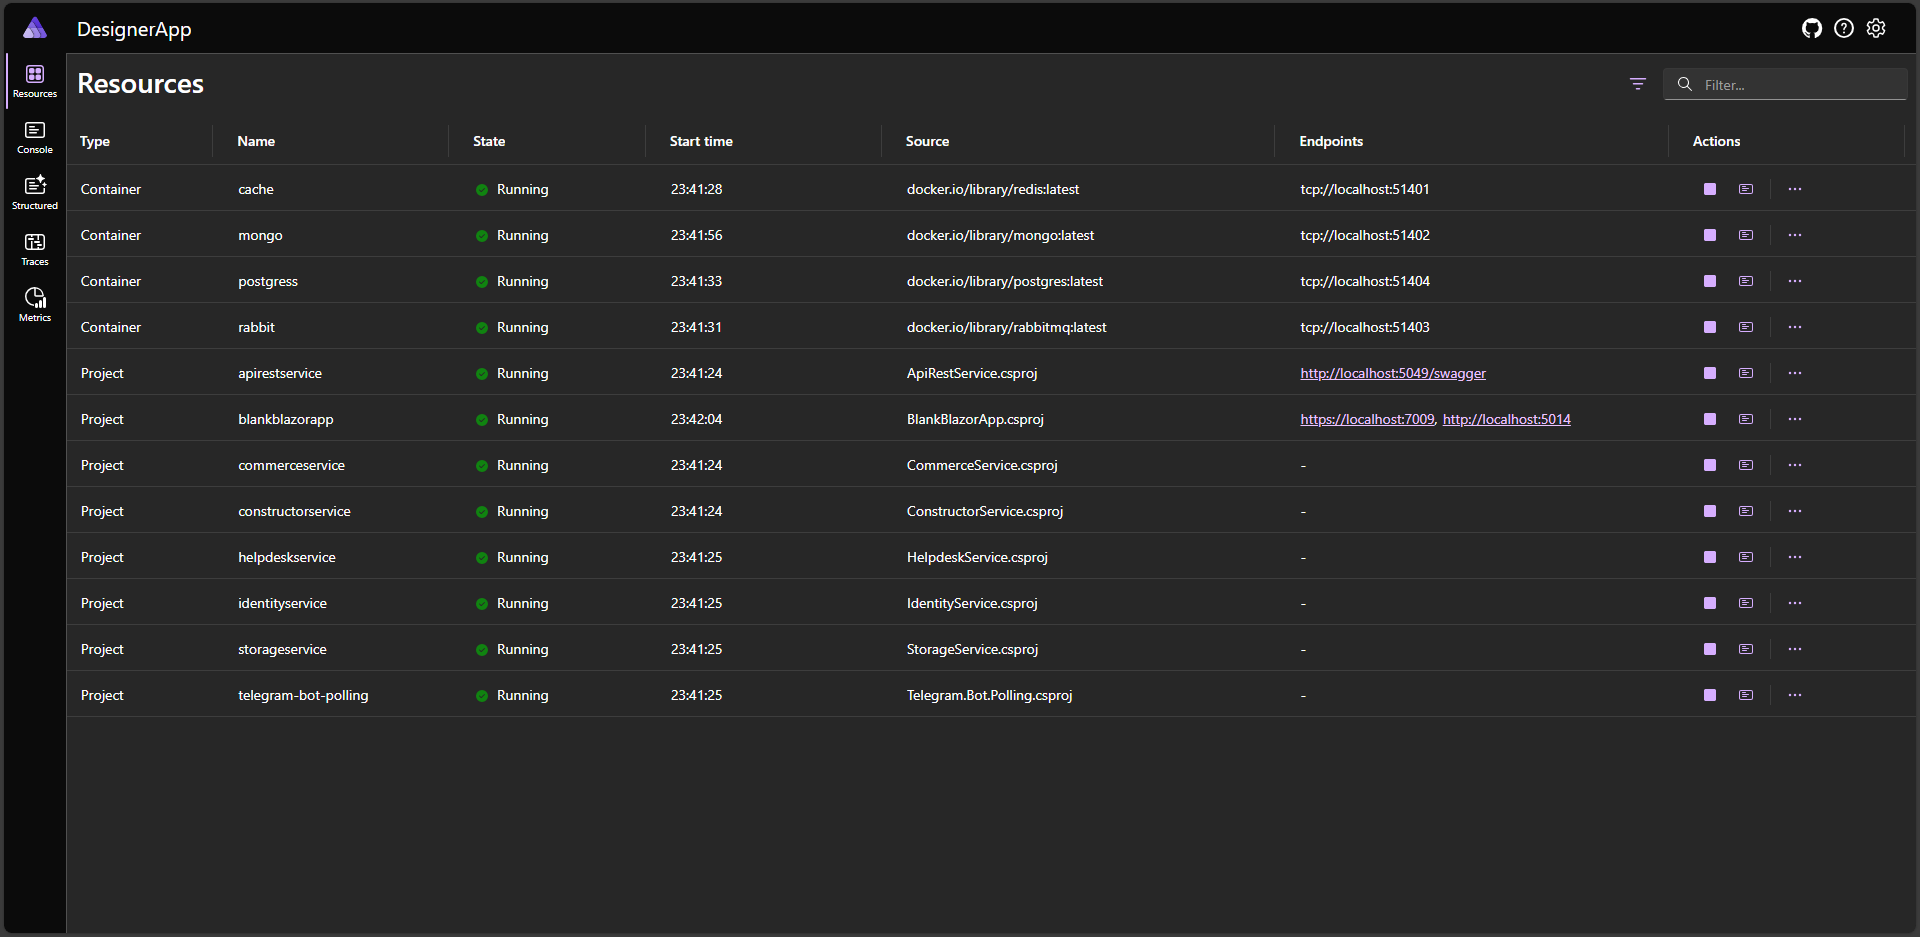
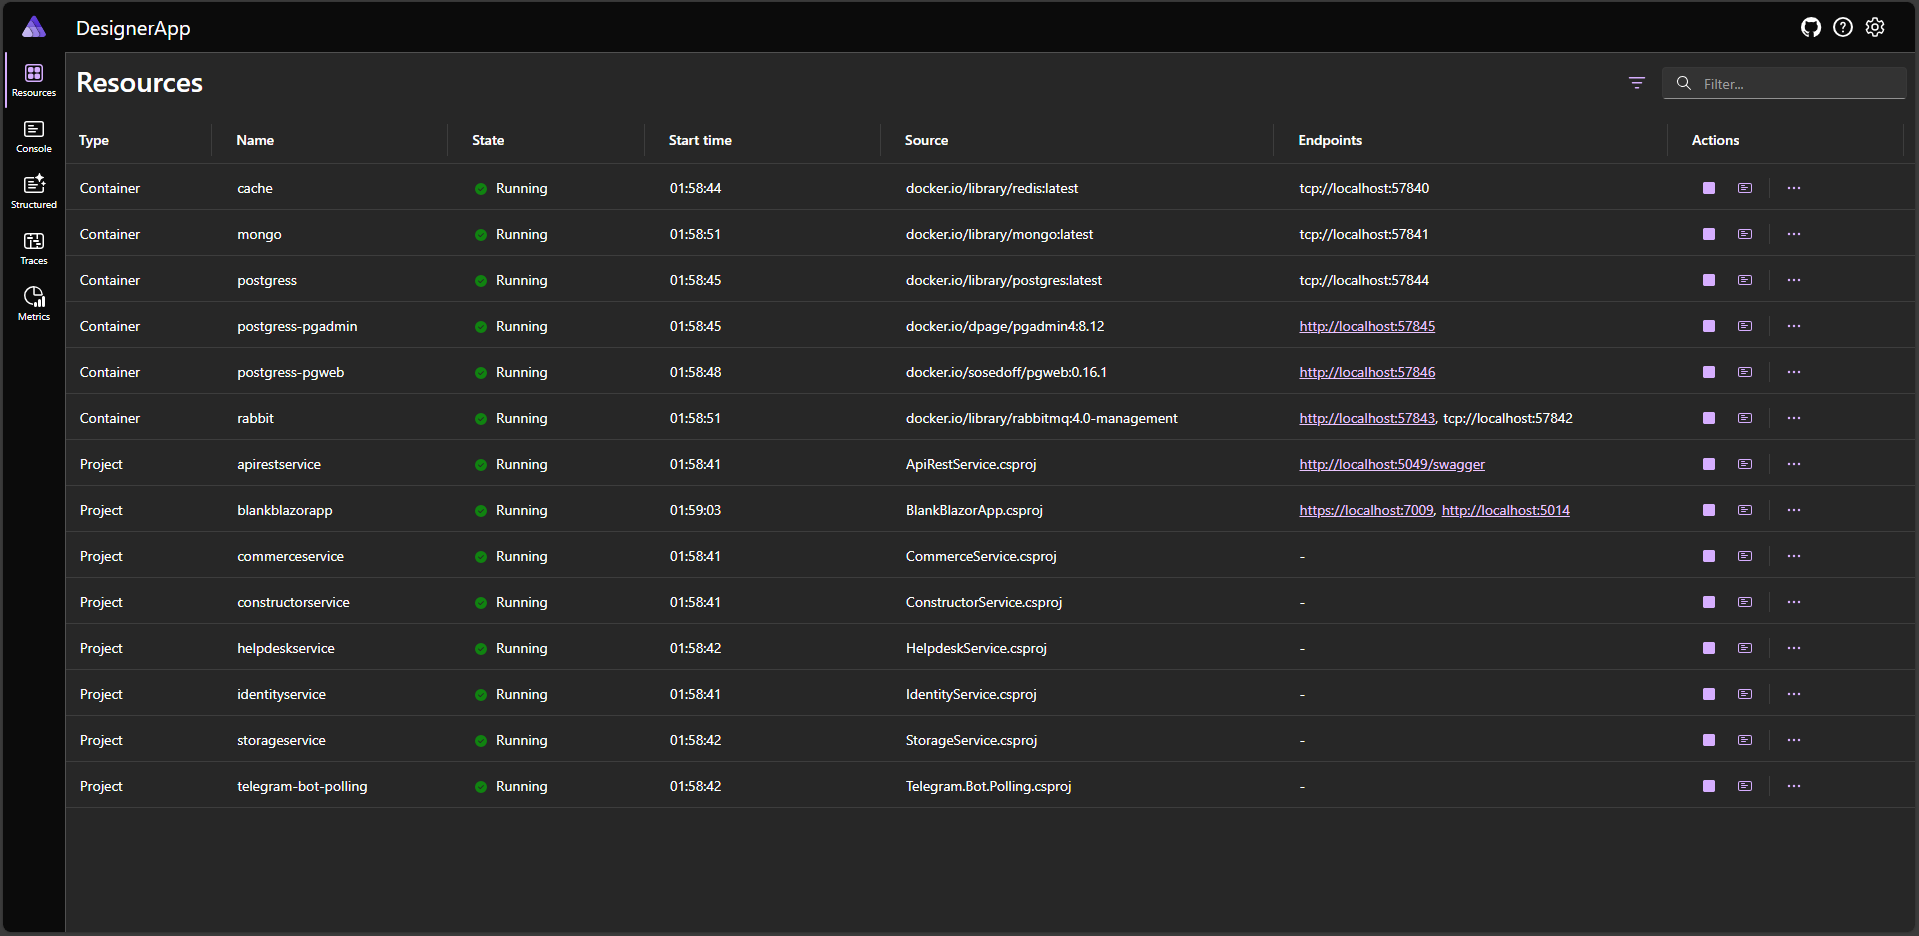
~

diff --git a/DesignerApp.AppHost/Program.cs b/DesignerApp.AppHost/Program.cs
@@ -4,24 +4,24 @@ IDistributedApplicationBuilder builder = DistributedApplication.CreateBuilder(ar
 
 IResourceBuilder<RedisResource> cache = builder.AddRedis("cache")
     .WithImageTag("latest")
-    .WithLifetime(ContainerLifetime.Persistent)
+    //.WithLifetime(ContainerLifetime.Persistent)
     .WithClearCommand()
     .WithBindMount("VolumeMount.AppHost-redis-data", "/data");
 
 IResourceBuilder<MongoDBServerResource> mongo = builder.AddMongoDB("mongo")
     .WithImageTag("latest")
-    .WithLifetime(ContainerLifetime.Persistent)
+    //.WithLifetime(ContainerLifetime.Persistent)
     .WithBindMount("VolumeMount.AppHost-mongo-data", "/data/db");
 
 IResourceBuilder<RabbitMQServerResource> rabbit = builder.AddRabbitMQ("rabbit")
-    .WithImageTag("latest")
-    .WithLifetime(ContainerLifetime.Persistent)
+    //.WithImageTag("latest")
+    //.WithLifetime(ContainerLifetime.Persistent)
     .WithManagementPlugin()
     .WithBindMount("VolumeMount.AppHost-rabbit-data", "/var/lib/rabbitmq");
 
 IResourceBuilder<PostgresServerResource> postgress = builder.AddPostgres("postgress")
     .WithImageTag("latest")
-    .WithLifetime(ContainerLifetime.Persistent)
+    //.WithLifetime(ContainerLifetime.Persistent)
     .WithPgAdmin()
     .WithPgWeb()
     .WithBindMount("VolumeMount.AppHost-postgress-data", "/var/lib/postgresql/data");
